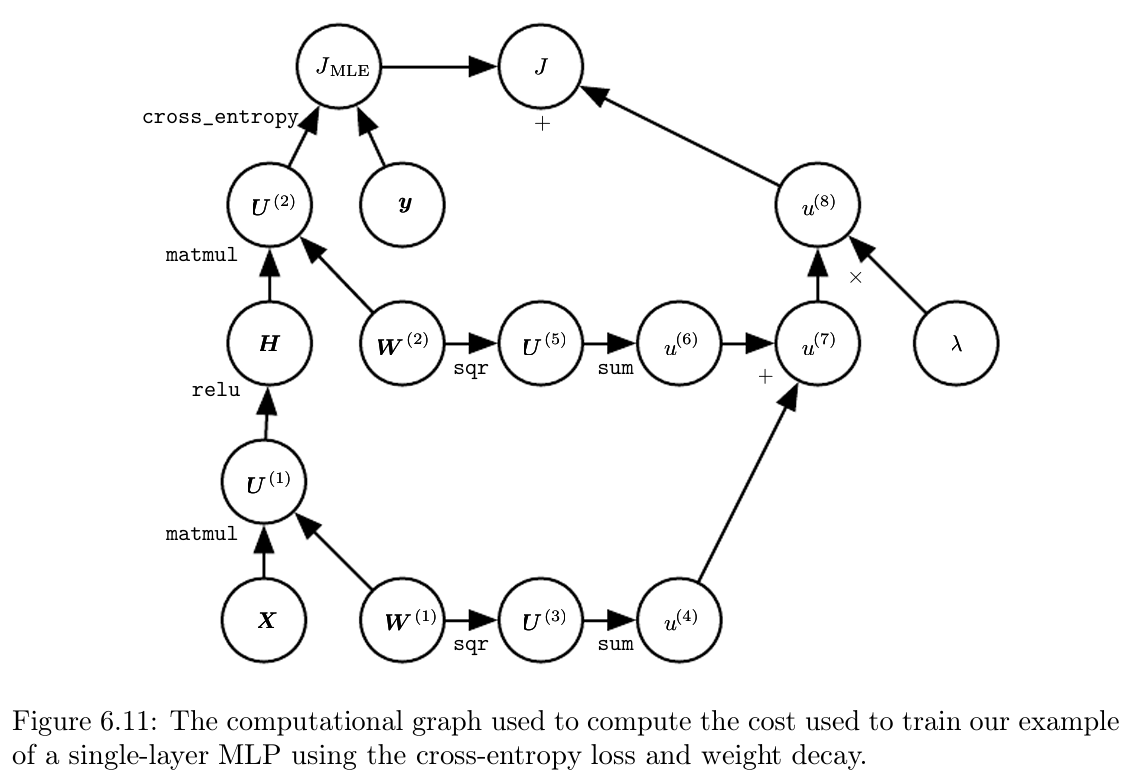
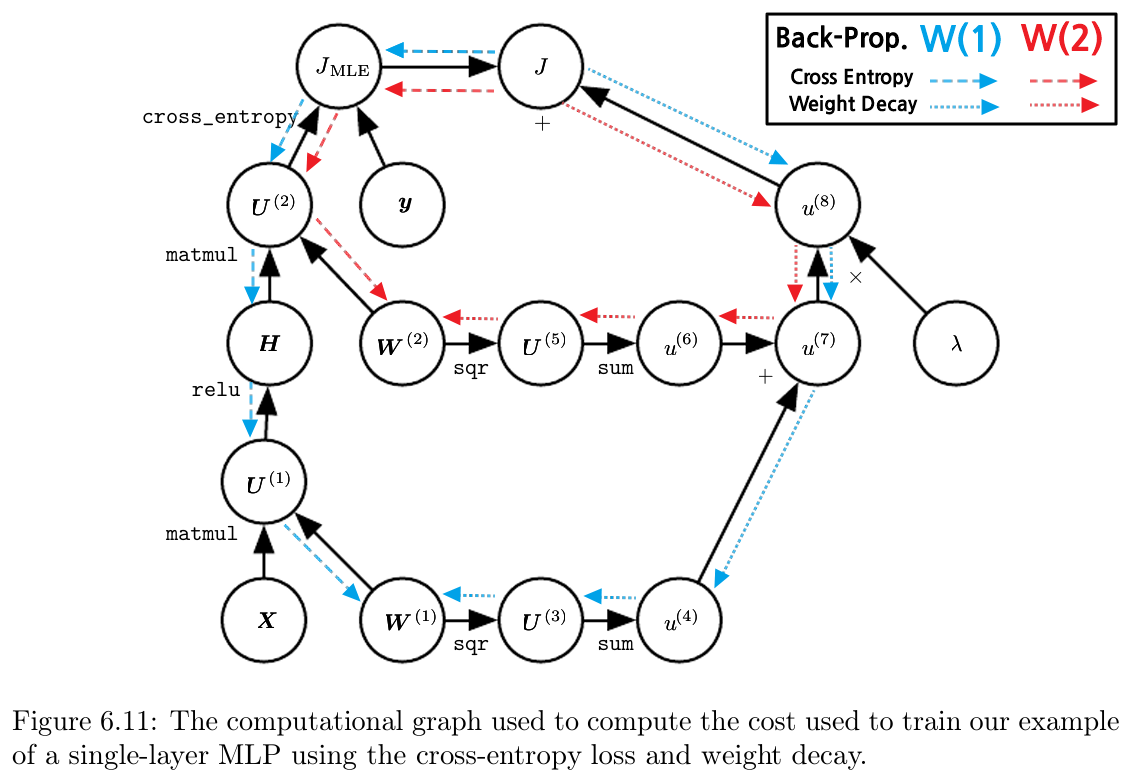
240622 covered with hansung :

diff --git a/text_books/deep_learning_mit/ch06/05/note.md b/text_books/deep_learning_mit/ch06/05/note.md
@@ -401,6 +401,62 @@ An application of the [Algorithm 2](#algorithm-2-back-propagation).
 <img src="images/003.png" width="700px">
 
 
+- Training)
+  - Objective)
+    - Compute $`\nabla_{W^{(1)}} J \textrm{ and } \nabla_{W^{(2)}} J`$ using the back-propagation.
+  - Back-Propagation)
+    - $`\nabla_{W^{(1)}} J = X^\top G' + 2\lambda W^{(1)}`$
+      - Cross Entropy Path)
+        - Let $`G`$ be the gradient on the unnormalized log probabilities $`U^{(2)}`$ provided by the `cross_entropy` operation.
+        - Then $`\nabla_H J_{\textrm{MLE}} = G \left({W^{(2)}}\right)^\top`$
+        - Next, `relu` zeroes out components of the gradient corresponding to entries of $`U^{(1)}`$ that are less than $`0`$.
+          - Put its result $`G'`$
+        - Hence, $`\nabla_{W^{(1)}} J_{\textrm{MLE}} = X^\top G'`$.
+        - Add $`X^\top G'`$ to the gradient on $`W^{(1)}`$
+      - Weight Decay Path)
+        - Add $`\nabla_{W^{(1)}} u^{(8)} = 2\lambda W^{(1)}`$ to the gradient on $`W^{(1)}`$
+    - $`\nabla_{W^{(2)}} J = H^\top G + 2\lambda W^{(2)}`$
+      - Cross Entropy Path)
+        - Let $`G`$ be the gradient on the unnormalized log probabilities $`U^{(2)}`$ provided by the `cross_entropy` operation.
+        - Then $`\nabla_{W^{(2)}} J = H^\top G`$.
+        - Thus, add $`H^\top G`$ to the gradient on $`W^{(2)}`$
+      - Weight Decay Path)
+        - Add $`\nabla_{W^{(2)}} u^{(8)} = 2\lambda W^{(2)}`$ to the gradient on $`W^{(2)}`$
+- Analysis)
+  - The **computational cost** is dominated by the cost of matrix multiplication.
+    - In the forward propagation stage, it takes $`O(w)`$ multiply-adds where $`w`$ is the number of weights.
+    - In the backward-propagation, we multiply by the transpose of each weight matrix, which also takes $`O(w)`$.
+  - The main **memory cost** of the algorithm is that we need to store the input to the nonlinearity of the hidden layer.
+    - This value is stored from the time it is computed until the backward pass has returned to the same point.
+    - The memory cost is $`O(m n_h)`$
+      - where 
+        - $`m`$ : the number of examples in the minibatch
+        - $`n_h`$ : the number of hidden units
+
+<br><br>
+
+## 6.5.8 Complications
+- In practice, the back-propagation is more complicated than [our example above](#657-example-back-propagation-for-mlp-training).
+- How?)
+  - Our [operation](#concept-operation) was defined to return a single tensor.
+    - Most software implementations need to support operations that can return more than one tensor.
+      - e.g.) If we wish to compute both the **maximum value** in a tensor and the **index** of that value, it is best to compute both in a single pass through memory.
+        - Why?) It is most efficient to implement this procedure as a single operation with two outputs.
+  - We have not described how to control the **memory consumption** of back-propagation.
+    - Back-propagation often involves summation of many tensors together.
+    - In the naive approach, each of these tensors would be computed separately, then all of them would be added in a second step.
+      - This can cause high memory bottleneck.
+  - Real-world implementations of back-propagation need to handle various data types.
+    - e.g.) 32/64-bit floating point, integer values
+      - The policy for handling each of these types takes special care to design.
+  - Some operations have undefined gradients.
+    - It is important to track these cases and determine whether the gradient requested by the user is undefined.
+
+<br><br>
+
+## 6.5.9 Differentiation outside the Deep Learning Community
+
+
 
 
 

diff --git a/text_books/deep_learning_mit/main.md b/text_books/deep_learning_mit/main.md
@@ -78,7 +78,7 @@
 |6.2|[Gradient-Based Learning](ch06/02/note.md)|- Cost Functions : Maximum Likelihood, Conditional Statistics <br> - Cost Functional, Calculus of Variation, Mean Absolute Error <br> - Output Units : Linear, Sigmoid, Softmax, Mixture Density Network (Gaussian Mixture)|
 |6.3|[Hidden Units](ch06/03/note.md)|- Rectified Linear Unit (ReLU) : Absolute Value Rectification, Leaky ReLU, Maxout Unit <br> - Logistic Sigmoid $`(\sigma)`$ and Hyperbolic Tangent $`(\tanh)`$ <br> - Linear Hidden Unit, Softmax Unit, Radial Basis Function (RBF) Unit, Softplus Unit, Hard $`\tanh`$|
 |6.4|[Architecture Design](ch06/04/note.md)|- Universal Approximation Theorem|
-|6.5|[Back-Propagation and Other Differentiation Algorithms](ch06/05/note.md)|- Forward Propagation / Back-Propagation <br> - Computational Graph : Node, Operation <br> - Chain Rule : Scalar, Vector, Tensor <br>- Symbol-to-Number Differentiation / Symbol-to-Symbol Differentiation <br> - General Back-Propagation, Time Complexity of the Back-Propagation Algorithm, Dynamic Programming|
+|6.5|[Back-Propagation and Other Differentiation Algorithms](ch06/05/note.md)|- Forward Propagation / Back-Propagation <br> - Computational Graph : Node, Operation <br> - Chain Rule : Scalar, Vector, Tensor <br>- Symbol-to-Number Differentiation / Symbol-to-Symbol Differentiation <br> - General Back-Propagation, Time Complexity of the Back-Propagation Algorithm, Dynamic Programming <br> - [Back-Propagation Example with a Diagram](ch06/05/note.md#657-example-back-propagation-for-mlp-training)|
 |6.6|[](ch06/06/note.md)|- |
 
 
